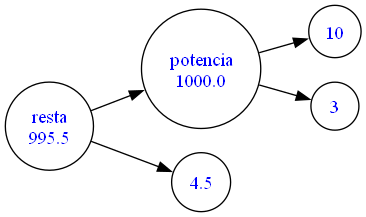
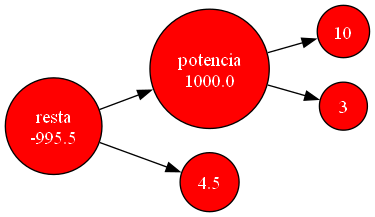
graphviz configuraciones
configura graphviz colores

diff --git a/Grafica/Arbol.py b/Grafica/Arbol.py
@@ -16,12 +16,16 @@ def generagraficaarbol():
 def configuraciones(configuraciones):
     global dot
     #dot.attr('node', shape='circle')
+    fondocolor = configuraciones['fondo']
+    letracolor = configuraciones['fuente']
+    forma = configuraciones['forma']
+    
     dot.attr(
             "node",
             style="filled",
-            fillcolor=configuraciones['fondo'],
-            fontcolor=configuraciones['fuente'],
-            shape=configuraciones['forma'],
+            fillcolor=fondocolor,
+            fontcolor=letracolor,
+            shape=forma,
         )
 
 def agregarnodo(label):

diff --git a/Analizador/analizador.py b/Analizador/analizador.py
@@ -402,13 +402,16 @@ def lexico(texto):
     
     #Arbol
     Arbol.generagraficaarbol()
-    Arbol.configuraciones(configuraciones)
+    
 
     #Obtener Tokens -> tokens
     obtenertokens(texto)
+    
 
     #Evaluar token y formar instrucciones -> listainstrucciones
     formar_instrucciones()
+    #Arbol
+    Arbol.configuraciones(configuraciones)
 
     #Interpretar instrucciones
     realizar_instruccion()
